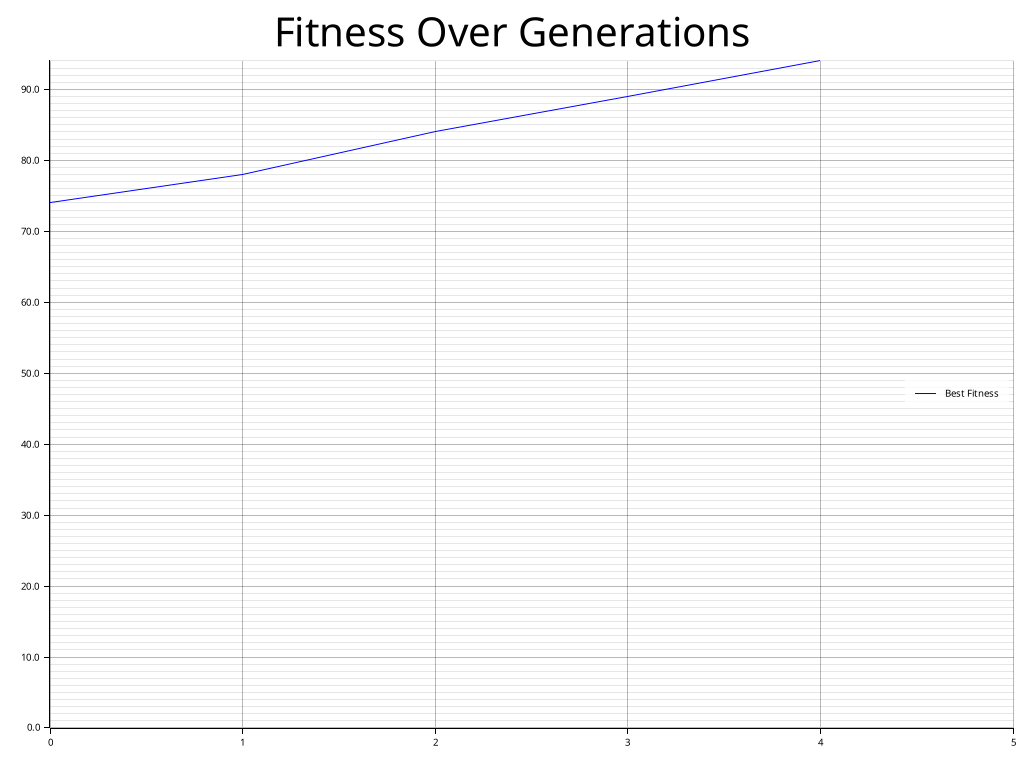
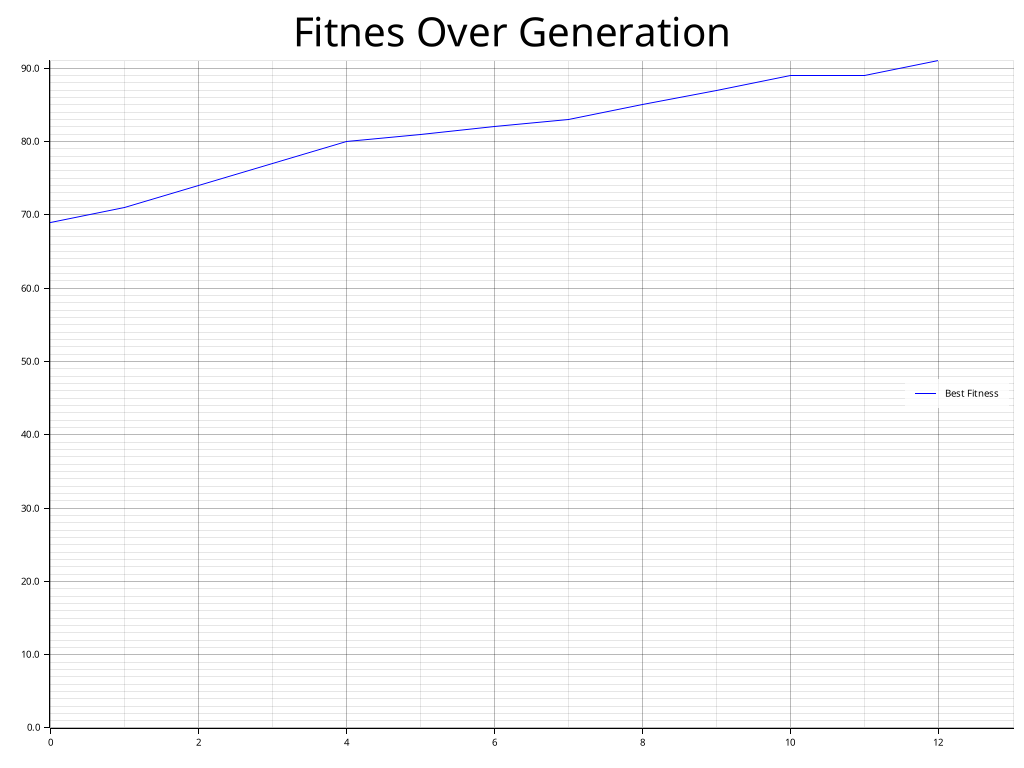
Refactor genetic algorithm parameters and enhance diversity tracking with new plotting functionality

diff --git a/max-sum/src/main.rs b/max-sum/src/main.rs
@@ -4,14 +4,15 @@ use std::collections::HashMap;
 use plotters::prelude::*;
 
 fn main() {
-    let population_size = 1_000;
+    let population_size = 100;
     let features_count = 100;
     let lower_bound = 90;
     let mutation_rate = 0.01;
-    let tournament_size = 100;
+    let tournament_size = 10;
     let max_generations = 1000;
     let mut fitness_landscapes = HashMap::new();
     let mut fiteness_history = Vec::new();
+    let mut divesity_history = Vec::new();
 
     let mut population = generate_population(population_size, features_count);
     let mut fitnest_value = *evaluate_population(&population)
@@ -25,20 +26,20 @@ fn main() {
         fitness_landscapes.insert(individual.clone(), fitness);
     }
 
+    divesity_history.push(diversity_function(&population));
+
     while generation <= max_generations && fitnest_value < lower_bound as f64 {
         let selected_population = tournament_selection(&population, tournament_size);
-        let new_population: Vec<Vec<bool>> = (0..selected_population.len())
+        let new_population: Vec<Vec<bool>> = (0..population_size)
             .into_par_iter()
-            .flat_map(|i| {
-                let parent1 = &selected_population[i];
+            .map(|i| {
+                let parent1 = &selected_population[i % selected_population.len()];
                 let parent2 = &selected_population[(i + 1) % selected_population.len()];
-                let (child1, child2) = single_point_crossover(parent1, parent2);
-                vec![
-                    mutate(&child1, mutation_rate),
-                    mutate(&child2, mutation_rate),
-                ]
+                let (child1, _) = single_point_crossover(parent1, parent2);
+                mutate(&child1, mutation_rate)
             })
             .collect();
+
 
         population = new_population;
 
@@ -56,6 +57,8 @@ fn main() {
 
         println!("Generation: {}, Fitness: {}", generation, fitnest_value);
         fiteness_history.push(fitnest_value);
+        divesity_history.push(diversity_function(&population));
+        println!("Population: {:?}", population.len());
     }
 
     let best_individual = population
@@ -65,7 +68,8 @@ fn main() {
     println!("Best individual: {:?}", best_individual);
     println!("Fitness: {}", fitness_function(best_individual));
 
-    plot_fitness_history(&fiteness_history).unwrap();
+    plot_graph(&fiteness_history, "fitness_history.png", "Fitnes Over Generation").unwrap();
+    plot_graph(&divesity_history, "diversity_history.png", "Diversity over generation").unwrap();
 
 }
 
@@ -190,15 +194,27 @@ fn mutate(individual: &Vec<bool>, mutation_rate: f64) -> Vec<bool> {
 /// 
 /// # Returns
 /// A `Result` containing `Ok` if the plot was successfully generated, or an `Err` if an error occurred.
-fn plot_fitness_history(fitness_history: &Vec<f64>) -> Result<(),Box<dyn std::error::Error>>{
-    let root = BitMapBackend::new("fitness_history.png", (1024, 768)).into_drawing_area();
+fn plot_graph(
+    fitness_history: &Vec<f64>, 
+    file_name: &str, 
+    title: &str
+) -> Result<(), Box<dyn std::error::Error>> {
+    let root = BitMapBackend::new(file_name, (1024, 768)).into_drawing_area();
     root.fill(&WHITE)?;
 
-    let max_fitness = *fitness_history.iter().max_by(|a, b| a.partial_cmp(b).unwrap()).unwrap();
+    if fitness_history.is_empty() {
+        return Err("Fitness history is empty, cannot generate plot.".into());
+    }
+
+    let max_fitness = *fitness_history
+        .iter()
+        .max_by(|a, b| a.partial_cmp(b).unwrap())
+        .unwrap();
+
     let generations = fitness_history.len();
 
     let mut chart = ChartBuilder::on(&root)
-        .caption("Fitness Over Generations", ("sans-serif", 50))
+        .caption(title, ("sans-serif", 50))
         .margin(10)
         .x_label_area_size(30)
         .y_label_area_size(40)
@@ -218,3 +234,39 @@ fn plot_fitness_history(fitness_history: &Vec<f64>) -> Result<(),Box<dyn std::er
 
     Ok(())
 }
+
+
+/// Calculates the diversity of a population.
+///     
+/// # Parameters
+/// - `population`: A reference to the population, where each individual is a vector of boolean values.
+/// 
+/// # Returns
+/// The diversity of the population, calculated as the sum of the Hamming distances between all pairs of individuals.
+fn diversity_function(population: &Vec<Vec<bool>>) -> f64 {
+    let mut diversity = 0.0;
+    for i in 0..population.len() {
+        for j in i + 1..population.len() {
+            let distance = hamming_distance(&population[i], &population[j]);
+            diversity += distance;
+        }
+    }
+    diversity
+}
+
+/// Calculates the Hamming distance between two individuals.
+/// 
+/// # Parameters
+/// - `individual1`: A reference to the first individual.
+/// - `individual2`: A reference to the second individual.
+/// 
+/// # Returns
+/// The Hamming distance between the two individuals, calculated as the number of differing bits.
+fn hamming_distance(individual1: &Vec<bool>, individual2: &Vec<bool>) -> f64 {
+    individual1
+        .iter()
+        .zip(individual2.iter())
+        .map(|(&a, &b)| if a == b { 0.0 } else { 1.0 })
+        .sum()
+}
+ 
